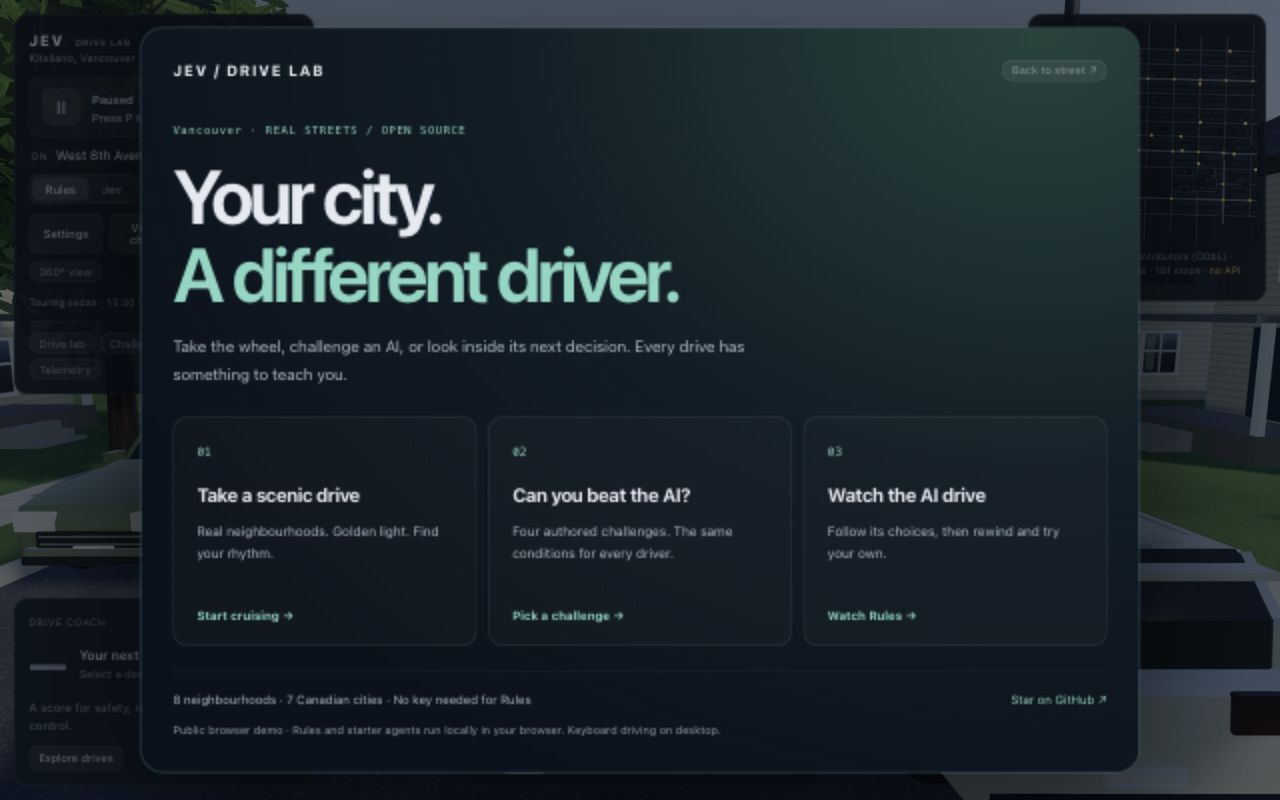
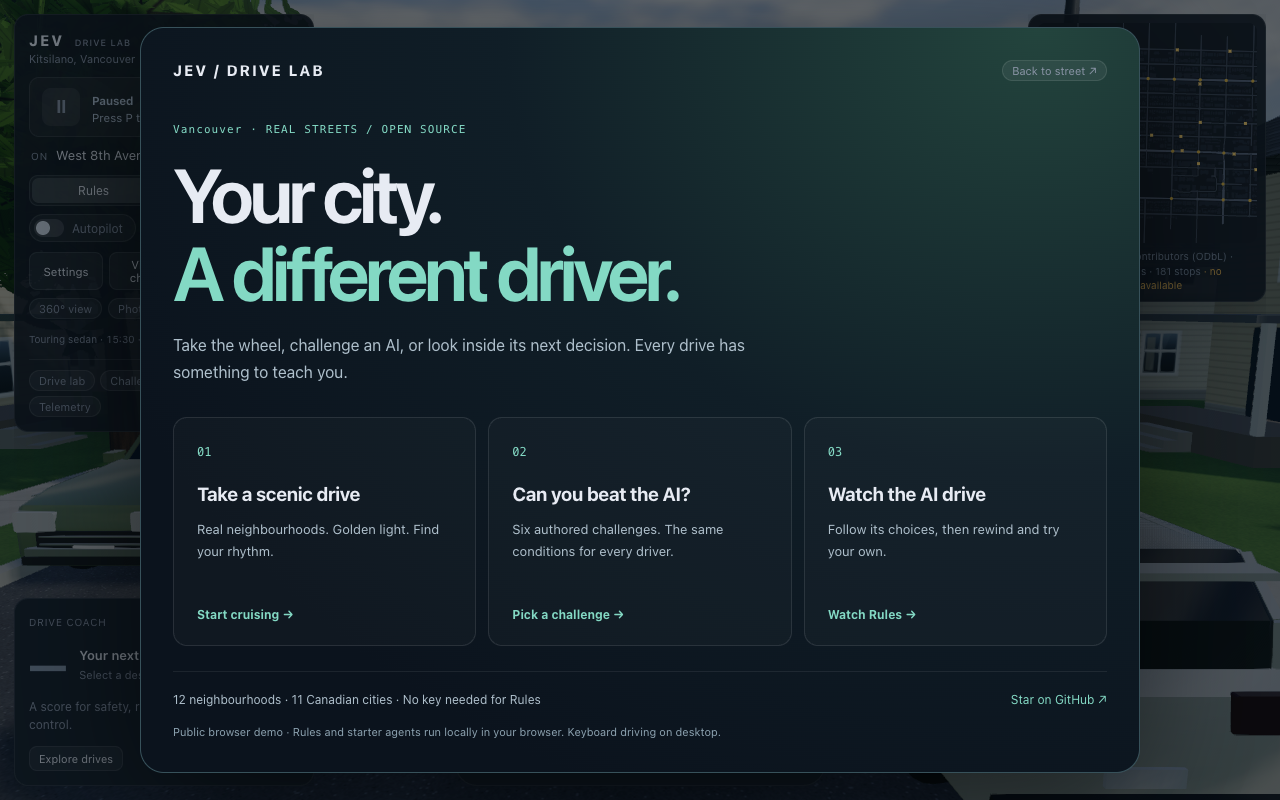
README: three driver pillars, current graphics presets, fresh hero image
- New "Three kinds of AI driver" section: Rules, Decision and LLM buttons with
  their keys, what each needs, provider setup for decision models and LLMs, and
  a note that the public demo runs Rules and browser agents only.
- "Bring your own agent and compare" covers the arena across all driver kinds
  and /bench.
- Graphics presets match post.js after the artifact fixes: High uses 4x
  multisampling with smooth leaf edges; Ultra supersamples instead.
- Per-city house colours and backdrops; project layout lists static/js/ui and
  the endpoint templates; the Rules baseline is linked from Development.
- docs/drive-lab.png (also the demo's social preview) is recaptured from the
  current demo: six challenges, 12 neighbourhoods in 11 cities, the new pillar row.

diff --git a/README.md b/README.md
@@ -42,6 +42,10 @@ once its dependencies are installed:
 | Downtown | Halifax | | Exchange District | Winnipeg |
 | Old Strathcona | Edmonton | | Downtown & Nutana | Saskatoon |
 
+Each city has its own house colours and a stylized backdrop on the horizon: Citadel Hill in
+Halifax, a needle tower in Toronto, a river-valley truss bridge in Edmonton, the North Shore
+mountains behind Vancouver.
+
 Pick from six vehicles, including a city hatch, a sport coupe and a utility pickup. Each one has
 its own dimensions, mass, power and handling. Then choose a paint colour, the weather (dry, rain,
 fog or snow) and any time of day. The sun follows each city's real latitude, and street lights come
@@ -60,9 +64,9 @@ Six hand-built scenarios test the situations real drivers get wrong:
 | **Joining the flow** | Kitsilano | A car pulling out of a parking spot |
 | **Around the corner** | Kitsilano | Someone stepping out from behind a building |
 
-Drive them yourself, or set Rules, a decision model, an LLM or your own agent loose on the same seed and compare
-results. A pass means you arrived with no collision, no red light or stop sign run, no failure to
-yield, and less than a second off the road. A good coaching score on its own doesn't count.
+Drive them yourself, or set Rules, a decision model, an LLM or your own agent loose on the same
+seed and compare results. A pass means you arrived with no collision, no red light or stop sign
+run, no failure to yield, and less than a second off the road. A good coaching score on its own doesn't count.
 
 ### 🧠 See through the AI's eyes
 
@@ -88,37 +92,58 @@ The **cinematic** camera (press **C** to cycle to it) works like a car film dire
 between a roadside camera the car sweeps past, a low bumper chase, a slow helicopter orbit, a
 tracking shot from ahead and a wheel-height side profile.
 
-### 🤖 Bring your own driver
+### 🤖 Three kinds of AI driver
+
+The HUD has one button for each kind of driver, and keys `1`, `2` and `3` select them:
+
+| Button | Key | What drives | Needs |
+|---|---|---|---|
+| **Rules** | `2` | Deterministic code that scores each safe manoeuvre | Nothing; free and offline |
+| **Decision ▾** | `1` | A decision model: Jev, or another model that answers typed questions with probabilities | A key for a hosted model, or a local server |
+| **LLM ▾** | `3` | Any chat model behind an OpenAI-compatible API | A key for a hosted model, or a local server |
+
+The public browser demo runs Rules and your own browser agents. Decision models and LLMs need the
+local app, whose server holds the keys.
+
+**Decision models** answer typed questions with probabilities instead of writing text. Jev is the
+built-in one. OpenRouter's Decisions API adds Perplexity Decider, Liquid d1, Microsoft Decision 1
+and others, and llama.cpp runs open ones such as Kev 4B on your own computer. Click **Decision ▾ →
+Connect a decision model…** and pick a provider:
+
+- **TypeSafe**: paste a key and Jev turns on at once. Other Jev versions, such as `jev-preview`,
+  can be added beside it for comparison.
+- **OpenRouter**: the list of decision models and their prices loads without a key; paste a key
+  to drive.
+- **llama.cpp**: a server on this computer, no key.
+- **Other**: any server that speaks the same protocol.
+
+Every model other than the built-in Jev becomes a driver called `decision:<name>`, and each one
+gets exactly the state and questions Jev gets, so comparisons are fair.
+
+**LLMs** work through the OpenAI Chat Completions protocol, so OpenAI, OpenRouter, Groq, vLLM,
+LM Studio, Ollama on your laptop and similar servers should all work. Click **LLM ▾ → Connect a
+model**, pick a provider, paste a key and choose a model. Each one becomes a driver called
+`llm:<name>`. The prompt is built from the same state Jev sees and lives in one file you can tweak.
+
+Either way, the key is saved to `.env` on the local server and never reaches the browser, the
+model drives straight away without a restart, and one OpenRouter key serves both kinds. The ▾
+menus switch between your models, and each button drives with the last one you chose. You can
+also list endpoints by hand in `data/decision-endpoints.json` and `data/llm-endpoints.json`
+(templates are in `data/`). Every model picks among the same safety-checked manoeuvres; when an
+answer is unusable, late or fails, Rules drives that step and the HUD says why. Both kinds of
+endpoint have been tested only against local mock servers so far, not against a real provider.
+The [agent guide](docs/agents.md#decision-models-jev-and-others) has the details and copy-paste
+examples.
+
+### 🧪 Bring your own agent and compare
 
 Write a small JavaScript module with a `decide()` function, load it in **Settings**, and it drives
 under the same physics, sensing and safety checks as the built-in drivers. The
-[arena](http://127.0.0.1:8322/arena) runs the fixed challenge suite and compares safety, comfort,
-latency and cost. It saves evaluations and lets you diff a run against a previous baseline. See the
-[agent guide](docs/agents.md) for a starter template.
-
-Three kinds of driver sit side by side in the HUD: **Rules** (deterministic code, free),
-**Decision** (decision models) and **LLM** (chat models). Keys `1`, `2` and `3` select them.
-
-**Decision models** answer typed questions with probabilities instead of writing text. Jev is the
-built-in one; OpenRouter's Decisions API adds Perplexity Decider, Liquid d1, Microsoft Decision 1
-and others, and llama.cpp runs open ones such as Kev 4B locally. Click **Decision ▾ → Connect a
-decision model…** and pick a provider: **TypeSafe** (paste a key; it turns on the built-in Jev,
-and other Jev versions can be added), **OpenRouter** (a live model list with prices, loaded without
-a key; paste a key to drive), **llama.cpp** on this computer (no key), or any other compatible
-server. Every model other than the built-in Jev becomes a driver called `decision:<name>`. Every decision model gets exactly the state and
-questions Jev gets, so comparisons are fair. The [agent guide](docs/agents.md#decision-models-jev-and-others)
-has the details.
-
-Got a chat model of your own? The local server speaks the OpenAI Chat Completions protocol, so it
-should work with OpenAI, OpenRouter, Groq, vLLM, LM Studio, Ollama on your laptop and similar
-servers. Click **LLM** (or **LLM ▾ → Connect a model**), pick a provider, paste a key and
-choose a model: the key is saved to `.env`, and the model drives straight away. Each model shows up
-as a driver called `llm:<name>`, ready to race the others in the arena and on `/bench`; the ▾ menu
-switches between them, and `3` drives with the last one chosen. Both kinds of endpoint have been
-tested only against local mock servers so far, not against a real provider. You can also list endpoints in
-`data/llm-endpoints.json` by hand. It picks among the same safety-checked
-manoeuvres, the keys stay on the server, and the prompt lives in one file you can tweak. The
-[agent guide](docs/agents.md#llm-endpoints-test-your-own-model) has copy-paste examples.
+[arena](http://127.0.0.1:8322/arena) runs the fixed challenge suite for any mix of Rules, decision
+models, LLMs and your own agents, and compares safety, comfort, latency and cost. It saves
+evaluations and lets you diff a run against a previous baseline. [`/bench`](http://127.0.0.1:8322/bench)
+runs a seeded suite of routes for one driver. See the [agent guide](docs/agents.md) for a starter
+template.
 
 ## Quick start
 
@@ -188,19 +213,22 @@ emergency brake, so differences in results come from decision-making alone.
 The renderer uses [Three.js](https://threejs.org) with no build step and a vendored runtime. In
 **Settings → Graphics** you can choose:
 
-- **Low**: direct rendering, for older laptops.
-- **High** (default): bloom, SMAA anti-aliasing, wet-road reflections and a cinematic colour grade.
-- **Ultra**: adds ground-truth ambient occlusion, 4K shadow maps and up to 2× pixel ratio.
+- **Low**: direct rendering without post-processing, for older laptops.
+- **High** (default): 4× multisampling with smooth leaf edges, SMAA, bloom, wet-road reflections
+  and a cinematic colour grade.
+- **Ultra**: adds ground-truth ambient occlusion, 4K shadow maps, sharper reflections and up to 2×
+  pixel ratio (which supersamples in place of multisampling).
 
 The sky is fully procedural. It has a physically placed sun and moon, stars, and a drifting cloud
 deck lit from the sun's side. The clouds follow the weather, glow orange at dusk, pick up the
 city's light at night, and show up in reflections on wet roads and car paint. Snow settles on
-upward-facing surfaces, and rain darkens and polishes the asphalt.
+upward-facing surfaces, and rain darkens and polishes the asphalt. Tree shadows sway with the
+leaves without crawling noise, and distant trees keep their colour and density.
 
 ## Development
 
 ```sh
-uv run python -m unittest discover tests        # server, routing, maps, OSM pipeline
+uv run python -m unittest discover tests        # server, routing, maps, OSM pipeline, model endpoints
 node scripts/test_drive_lab.mjs                 # drive lab and replay features
 node scripts/test_arena_history.mjs             # saved evaluations and comparisons
 node scripts/test_cinematic_photo.mjs           # cinematic camera and photo mode
@@ -218,22 +246,25 @@ headless Chromium. It then builds the Pages demo and deploys it from `main`.
 
 ```
 server.py          local HTTP server and API (stdlib only)
-jev/               map fetching, OSM processing, routing, model clients and endpoint proxies
+jev/               map fetching, OSM processing, routing, Jev client, decision-model and LLM proxies
 static/js/sim/     physics, traffic, pedestrians, signals, scoring
 static/js/brain/   sensing, candidate generation, safety filter, drivers
 static/js/render/  Three.js scene, sky, weather, cars, buildings, cameras
+static/js/ui/      HUD, Connect a model dialog, drive lab, photo mode
 static/js/lab/     challenges, recorder, replay, arena
 data/maps/         bundled neighbourhood map packs
+data/*-endpoints.example.json   templates for your own decision-model and LLM endpoints
 ```
 
-If you change physics, sensing or planning, run a seeded comparison on `/bench` before and after.
+If you change physics, sensing or planning, run a seeded comparison on `/bench` before and after;
+the committed Rules baseline is described in [docs/rules-baseline.md](docs/rules-baseline.md).
 Contributions are welcome. Agents, new scenarios, accessibility fixes and neighbourhood details
 are especially appreciated.
 
 ## Further reading
 
 - [Drive lab, perception and replay](docs/drive-lab.md)
-- [Writing your own agent](docs/agents.md)
+- [Decision models, LLMs and your own agent](docs/agents.md)
 - [Scoring formula and driving details](docs/drive-experience.md)
 - [Maps, attribution and custom extracts](docs/maps.md)
 - [Rules benchmark baseline](docs/rules-baseline.md)
